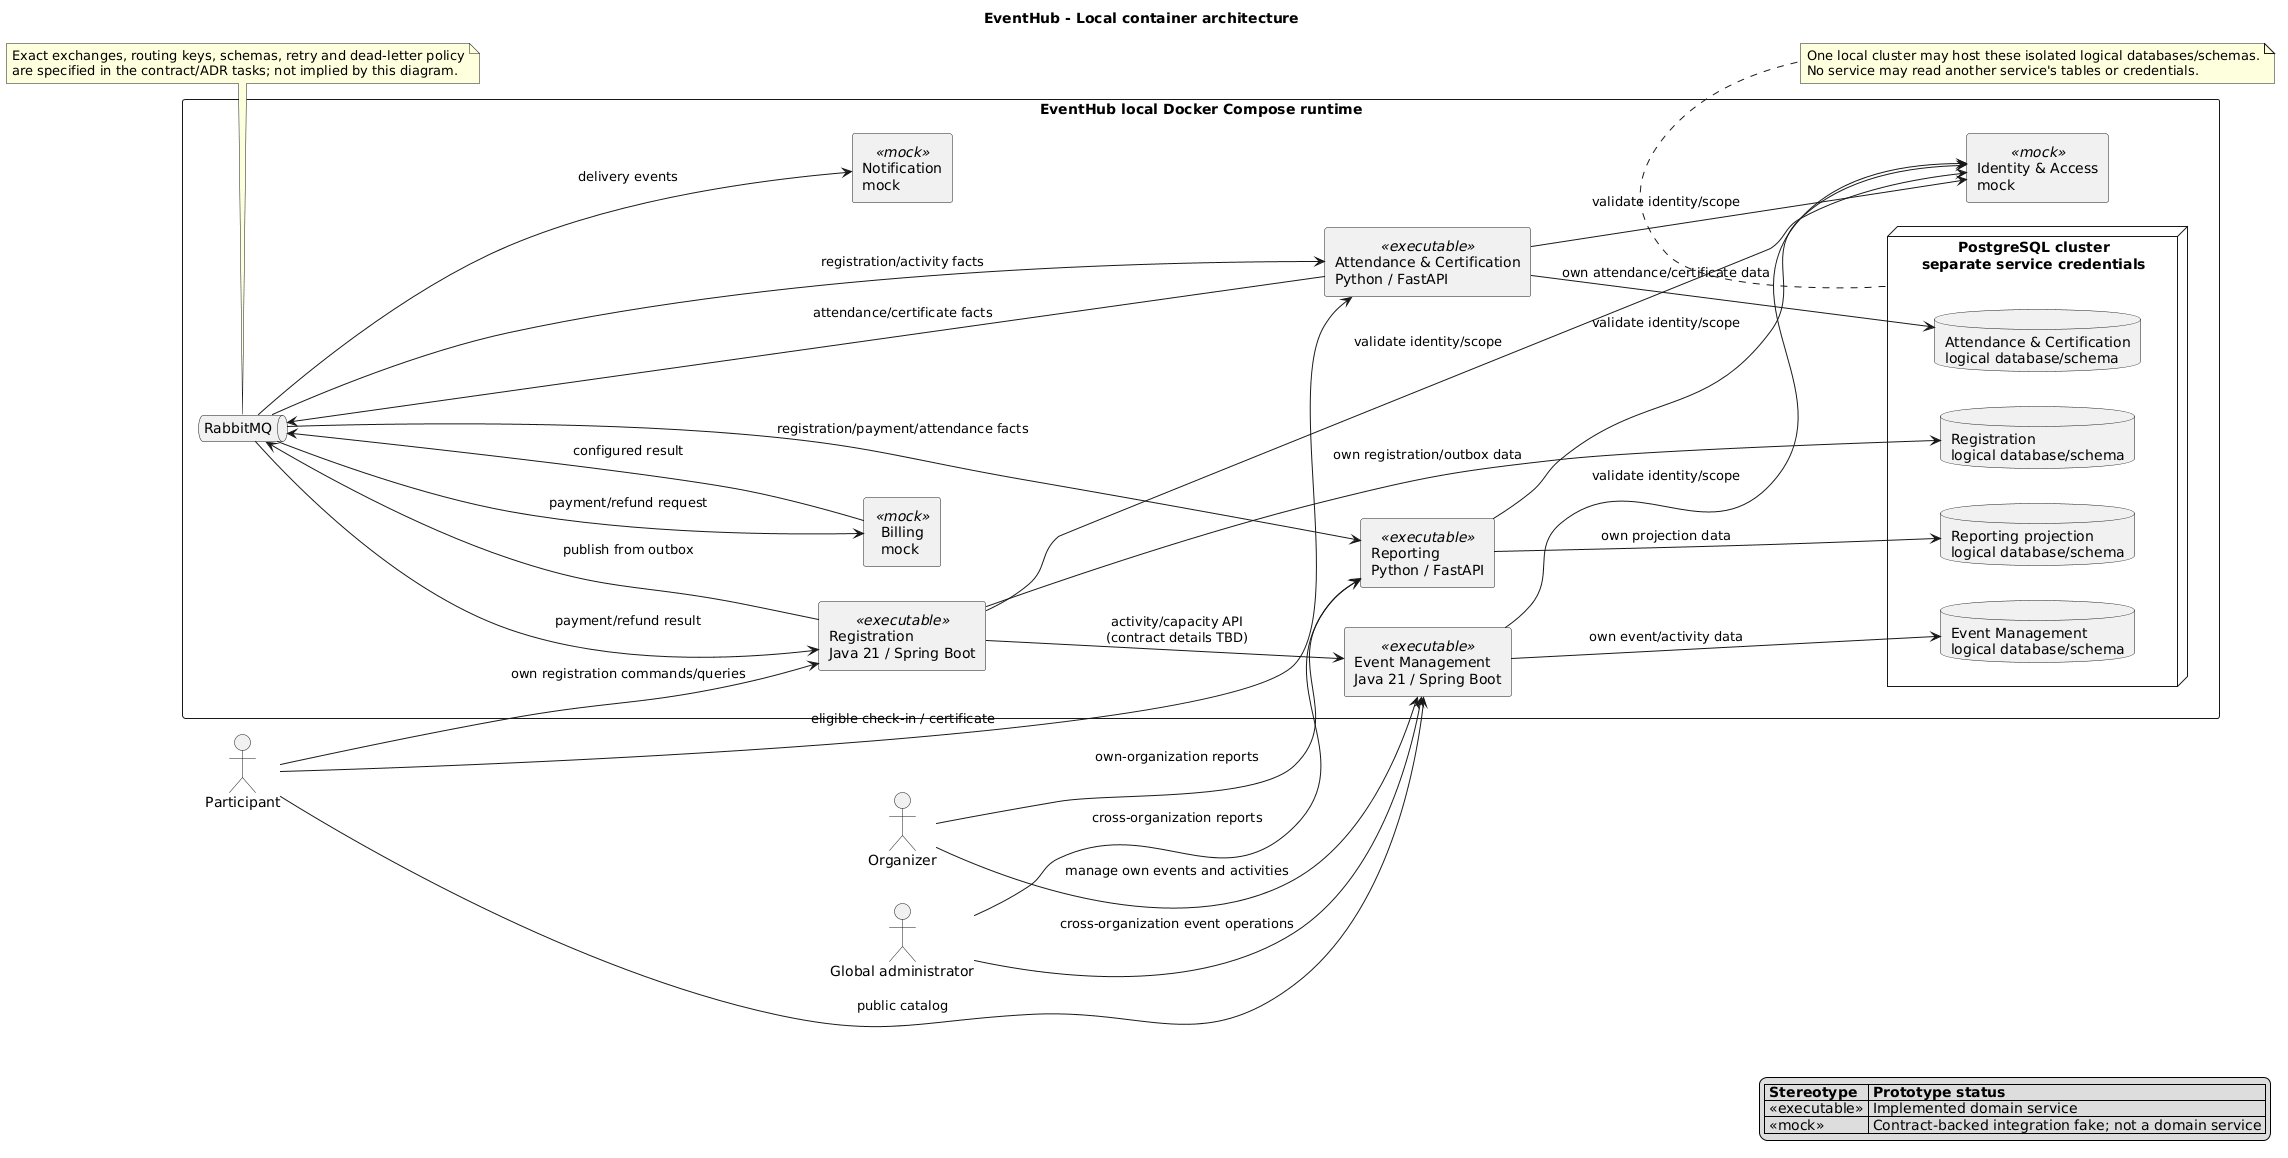
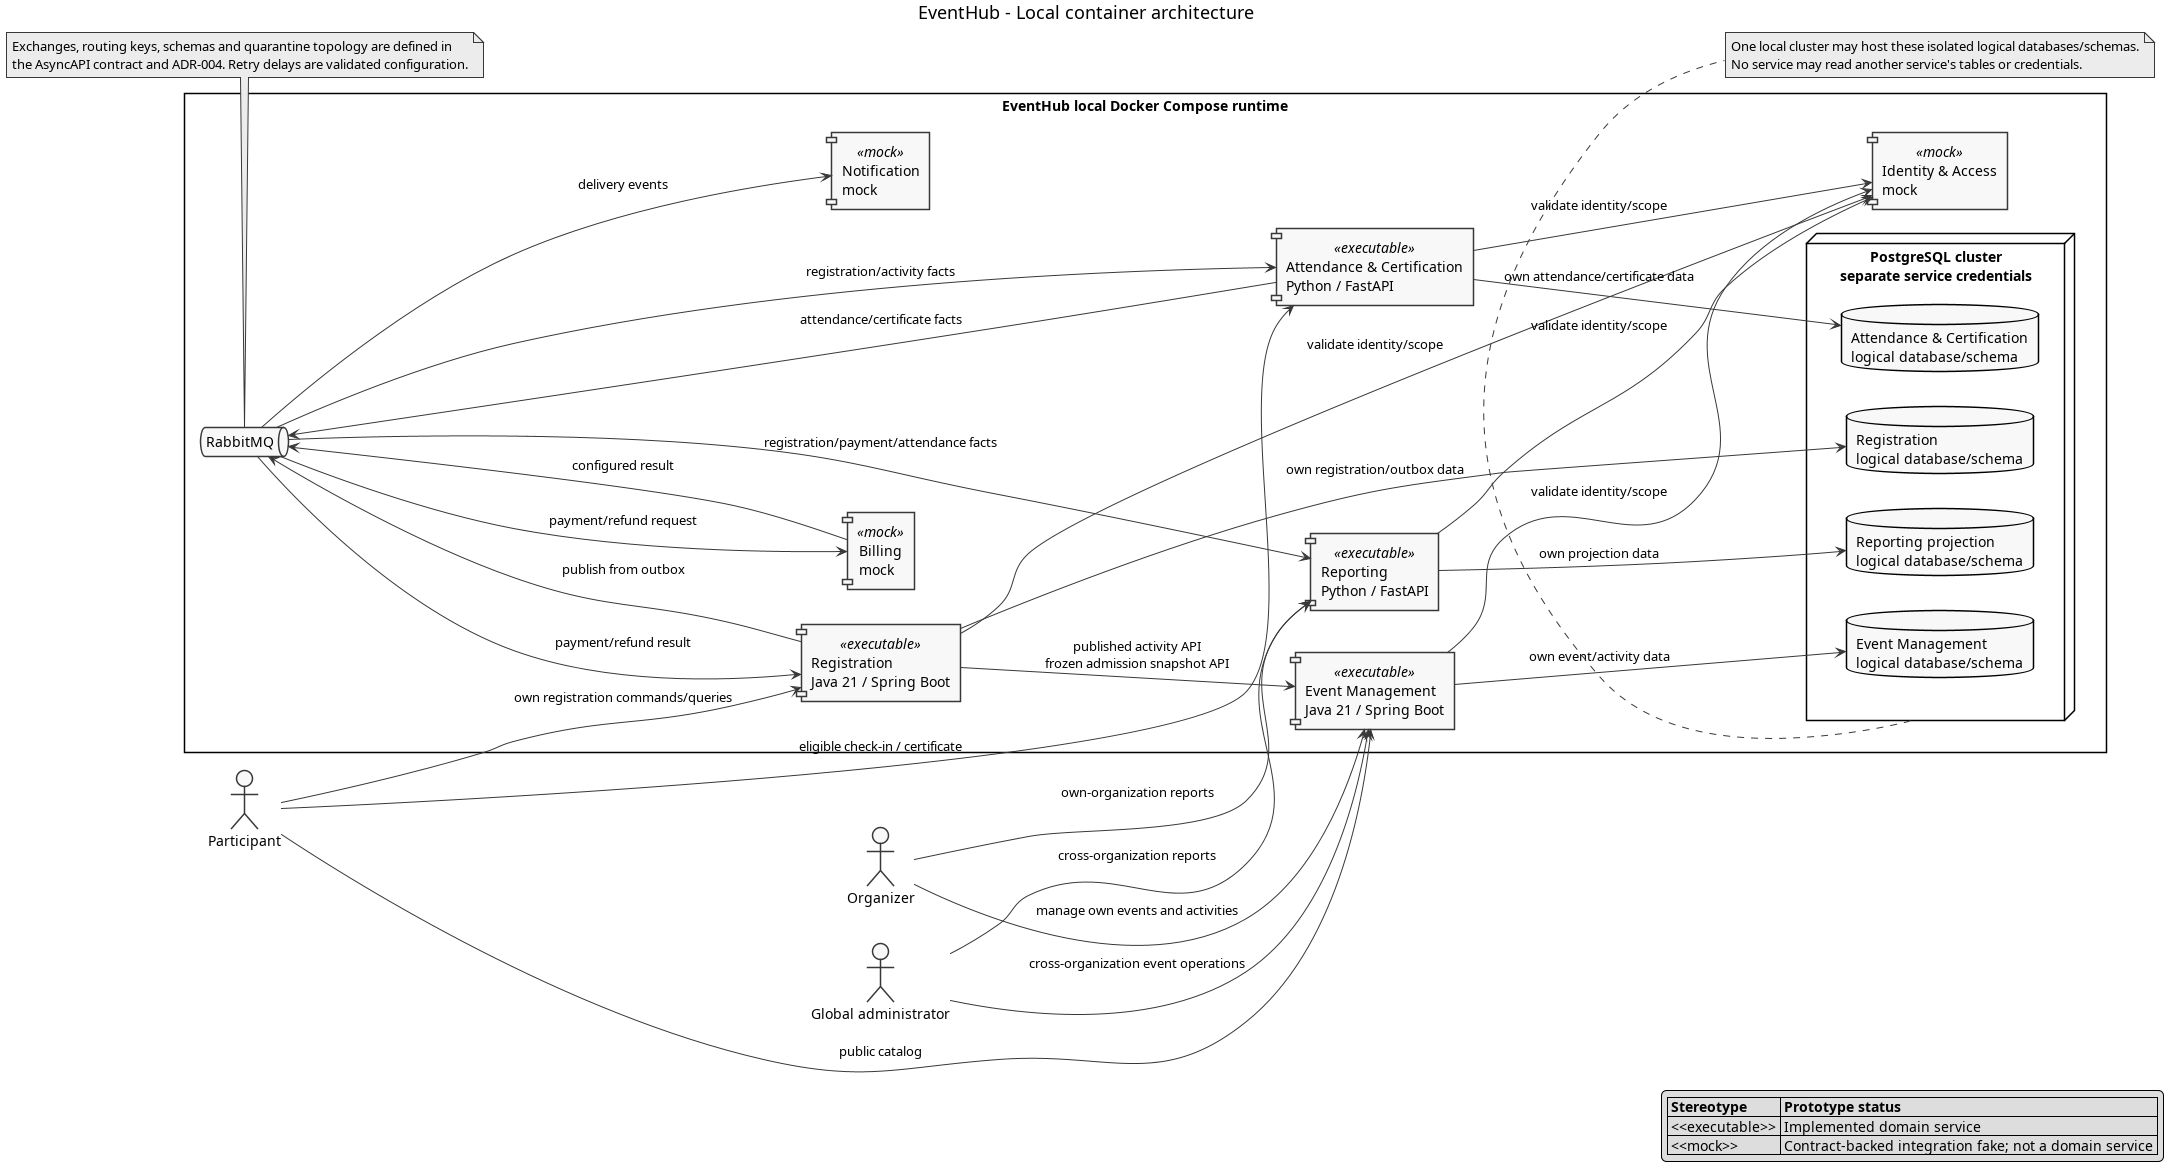
Docs: Refresh rendered architecture diagram

diff --git a/docs/validation/final-delivery.md b/docs/validation/final-delivery.md
@@ -24,10 +24,10 @@ shows the success path and failure behavior; the
 [service-boundary inventory](../architecture/service-boundaries.md) explain
 ownership and prototype scope.
 
-The PlantUML files are the editable sources for the diagrams. The existing
-`services.png` is an earlier generated export and is not the authoritative
-as-built view; use the linked sources and contracts when reviewing current
-behavior.
+The PlantUML files are the editable sources for the diagrams. The
+[`services.png` export](../architecture/services.png) is generated from
+`containers.puml`; regenerate it after changing that source so the visual
+summary stays aligned.
 
 - HTTP routes and schemas: [OpenAPI contract index](../contracts/README.md)
   and [OpenAPI specifications](../contracts/openapi).
